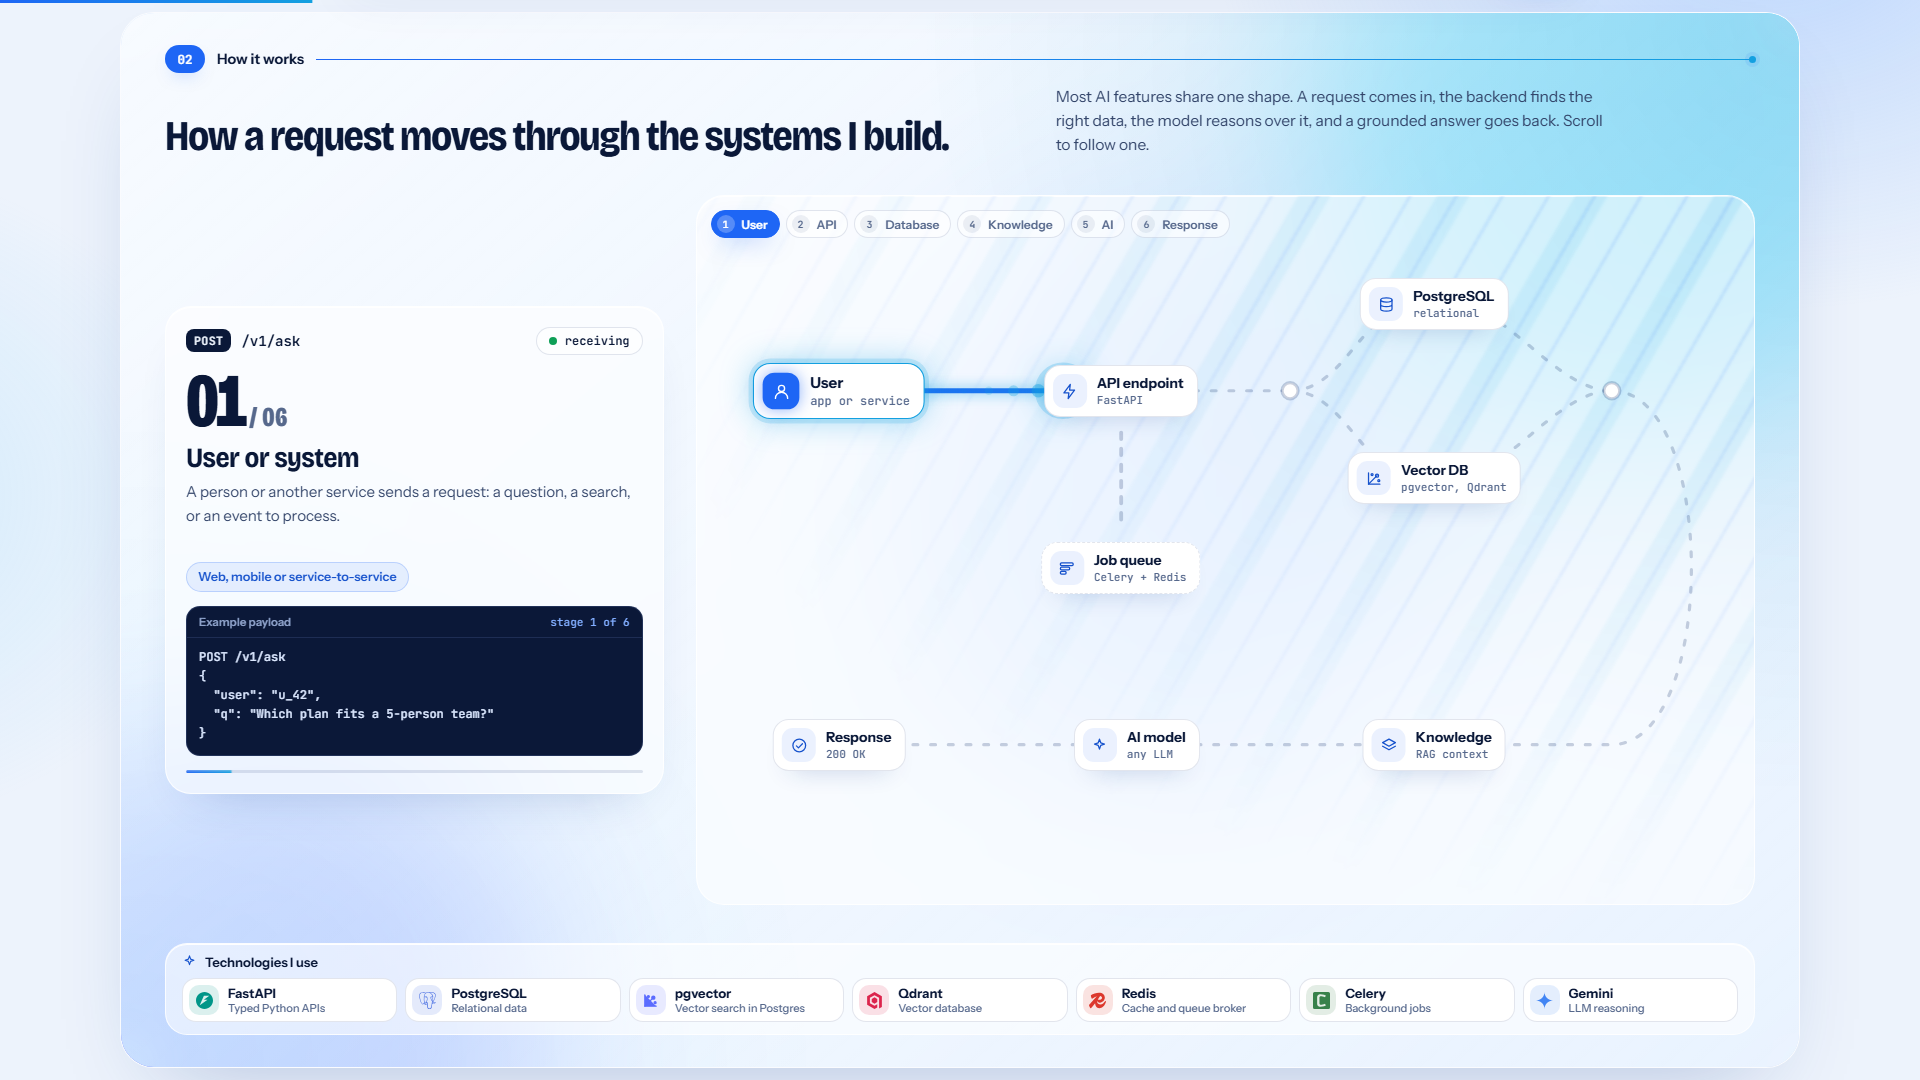
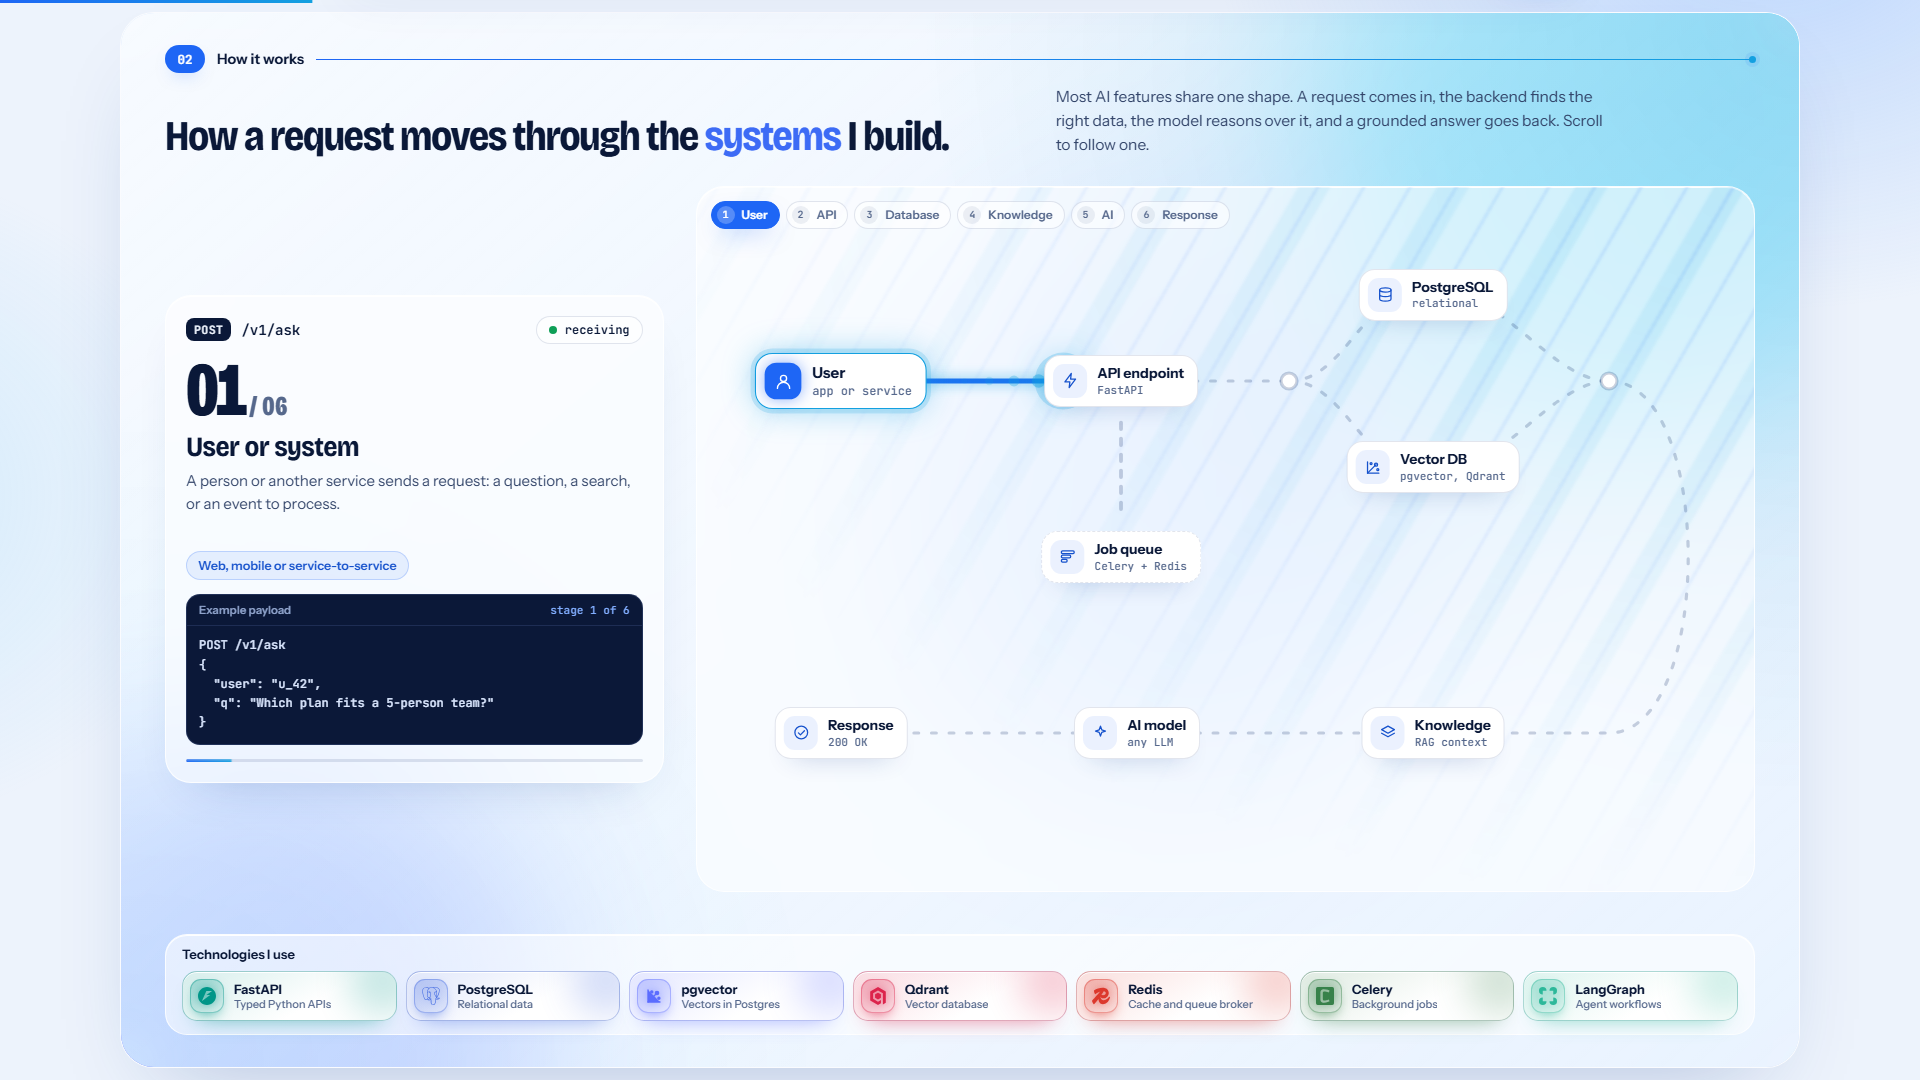
style: refine journey tech cards and heading

diff --git a/src/styles/home.css b/src/styles/home.css
@@ -163,7 +163,7 @@
 .jr-steps li.done i { background: var(--accent); color: #FFFFFF; }
 .jr-steps li.now { background: var(--accent); border-color: var(--accent); color: #FFFFFF; box-shadow: 0 0 24px rgba(47, 110, 240, .6); }
 .jr-steps li.now i { background: rgba(255, 255, 255, .22); color: #FFFFFF; }
-.jr-diagram { position: relative; width: min(100%, calc((100svh - 400px) * 1.6)); max-width: 100%; margin-inline: auto; aspect-ratio: 640 / 400; container-type: inline-size; }
+.jr-diagram { position: relative; width: min(100%, calc((100svh - 440px) * 1.6)); max-width: 100%; margin-inline: auto; aspect-ratio: 640 / 400; container-type: inline-size; }
 .jr-diagram > svg { position: absolute; inset: 0; width: 100%; height: 100%; overflow: visible; }
 .jr-bg path { fill: none; stroke: var(--line-strong); stroke-width: 2; stroke-dasharray: 3 8; stroke-linecap: round; }
 .jr-path { fill: none; stroke: url(#jrGrad); stroke-width: 3.2; stroke-linecap: round; filter: drop-shadow(0 0 5px rgba(56, 192, 242, .75)); }
@@ -204,7 +204,7 @@
   .jr-n { font-size: 44px; margin-top: 8px; }
   .jr-desc { min-height: 0; font-size: 14px; }
   .jr-pre { min-height: 5.6em; font-size: 11.5px; }
-  .jr-diagram { width: min(100%, calc((100svh - 350px) * 1.6)); }
+  .jr-diagram { width: min(100%, calc((100svh - 390px) * 1.6)); }
 }
 
 /* request journey on the frosted cyan glass band (same recipe as the "Keep systems replaceable" card) */
@@ -245,14 +245,19 @@
 /* data-flow container: same glass colour, plus soft blurred "/" lines (a wide soft band and a thin line, fading toward the lower left) */
 .jr-stage::before { content: ""; position: absolute; inset: -4px; z-index: -1; pointer-events: none; filter: blur(1.4px); background: repeating-linear-gradient(120deg, transparent 0 46px, color-mix(in srgb, var(--accent-2) 11%, transparent) 46px 74px, transparent 74px 120px), repeating-linear-gradient(120deg, transparent 0 22px, color-mix(in srgb, var(--accent) 22%, transparent) 22px 24px, transparent 24px 40px); -webkit-mask-image: radial-gradient(130% 120% at 100% 0%, #000 0%, rgba(0, 0, 0, .55) 45%, transparent 85%); mask-image: radial-gradient(130% 120% at 100% 0%, #000 0%, rgba(0, 0, 0, .55) 45%, transparent 85%); }
 /* technologies strip under the flow */
-.jr-stack { display: grid; gap: 8px; padding: 10px clamp(10px, 1.2vw, 16px) 12px; border-radius: 22px; background: var(--rg-inset); border: 1px solid var(--rg-edge); box-shadow: inset 0 1px 0 var(--rg-hi); }
-.jr-stack-k { display: inline-flex; align-items: center; gap: 8px; font: 650 13px var(--f-body); color: var(--ink); }
-.jr-stack-k .ico { width: 15px; height: 15px; color: var(--accent-text); }
-.jr-stack ul { display: grid; grid-template-columns: repeat(7, minmax(0, 1fr)); gap: 8px; margin: 0; padding: 0; list-style: none; }
-.jr-stack li { --brand: var(--accent); display: flex; align-items: center; gap: 9px; min-width: 0; padding: 6px 10px 6px 6px; border-radius: 14px; background: var(--surface-solid); border: 1px solid var(--line); }
-.jr-stack-ic { flex: none; display: grid; place-items: center; width: 30px; height: 30px; border-radius: 10px; background: var(--accent-soft); background: color-mix(in srgb, var(--brand) 14%, transparent); }
-.jr-stack-ic svg { width: 17px; height: 17px; fill: var(--brand); }
-.jr-stack-ic .ico { width: 17px; height: 17px; color: var(--brand); }
+.jr-grid { margin-bottom: 14px; }
+.jr-sys { color: #3D6BF5; }
+.jr-stack { display: grid; gap: 9px; padding: 11px clamp(10px, 1.2vw, 16px) 13px; border-radius: 22px; background: var(--rg-inset); border: 1px solid var(--rg-edge); box-shadow: inset 0 1px 0 var(--rg-hi); }
+.jr-stack-k { font: 650 13px var(--f-body); color: var(--ink); }
+.jr-stack ul { display: grid; grid-template-columns: repeat(7, minmax(0, 1fr)); gap: 9px; margin: 0; padding: 0; list-style: none; }
+.jr-stack li { --brand: var(--accent); position: relative; isolation: isolate; overflow: hidden; display: flex; align-items: center; gap: 10px; min-width: 0; padding: 7px 10px 7px 7px; border-radius: 15px; background: linear-gradient(150deg, color-mix(in srgb, var(--brand) 16%, var(--surface-solid)), var(--surface-solid) 62%); border: 1px solid color-mix(in srgb, var(--brand) 30%, var(--line)); box-shadow: inset 0 1px 0 var(--rg-hi), 0 12px 22px -16px color-mix(in srgb, var(--brand) 70%, transparent); transition: translate .4s var(--ease), box-shadow .4s var(--ease), border-color .3s; }
+/* soft brand glow in the corner */
+.jr-stack li::before { content: ""; position: absolute; z-index: -1; right: -22px; top: -26px; width: 70px; height: 70px; border-radius: 50%; background: var(--brand); opacity: .22; filter: blur(18px); transition: opacity .4s; }
+.jr-stack li:hover { translate: 0 -3px; border-color: color-mix(in srgb, var(--brand) 60%, transparent); box-shadow: inset 0 1px 0 var(--rg-hi), 0 18px 30px -16px color-mix(in srgb, var(--brand) 85%, transparent); }
+.jr-stack li:hover::before { opacity: .4; }
+.jr-stack-ic { flex: none; display: grid; place-items: center; width: 34px; height: 34px; border-radius: 11px; background: linear-gradient(145deg, color-mix(in srgb, var(--brand) 30%, transparent), color-mix(in srgb, var(--brand) 10%, transparent)); box-shadow: inset 0 0 0 1px color-mix(in srgb, var(--brand) 38%, transparent), 0 6px 14px -6px color-mix(in srgb, var(--brand) 80%, transparent); }
+.jr-stack-ic svg { width: 18px; height: 18px; fill: var(--brand); filter: drop-shadow(0 0 5px color-mix(in srgb, var(--brand) 55%, transparent)); }
+.jr-stack-ic .ico { width: 18px; height: 18px; color: var(--brand); }
 .jr-stack li b { display: block; font: 700 13px/1.25 var(--f-body); color: var(--ink); white-space: nowrap; overflow: hidden; text-overflow: ellipsis; }
 .jr-stack li small { display: block; font: 500 11px/1.3 var(--f-body); color: var(--muted); overflow: hidden; text-overflow: ellipsis; white-space: nowrap; }
 @media (max-width: 1180px) { .jr-stack li small { display: none; } }

diff --git a/src/components/home/journey/Journey.tsx b/src/components/home/journey/Journey.tsx
@@ -16,9 +16,9 @@ const STACK: { name: string; note: string; brand?: string; color?: string }[] = 
   { name: "PostgreSQL", note: "Relational data", brand: "postgresql", color: "#4169E1" },
   { name: "pgvector", note: "Vectors in Postgres", color: "#5B6CFF" },
   { name: "Qdrant", note: "Vector database", brand: "qdrant", color: "#DC244C" },
-  { name: "Redis", note: "Cache and queue broker", brand: "redis", color: "#DC382D" },
+  { name: "Redis", note: "Cache and broker", brand: "redis", color: "#DC382D" },
   { name: "Celery", note: "Background jobs", brand: "celery", color: "#37814A" },
-  { name: "Gemini", note: "LLM reasoning", brand: "googlegemini", color: "#4285F4" },
+  { name: "LangGraph", note: "Agent workflows", brand: "langgraph", color: "#2DB89A" },
 ];
 const BG_PATHS = [
   "M80 90 H360",
@@ -43,7 +43,7 @@ export function Journey() {
           <div className="jr-head">
             <SectionMark num="02" label="How it works" />
             <h2 className="h2" id="jr-h">
-              How a request moves through the systems I build.
+              How a request moves through the <span className="jr-sys">systems</span> I build.
             </h2>
             <p className="lead">
               Most AI features share one shape. A request comes in, the backend finds the right data, the model reasons
@@ -152,7 +152,6 @@ export function Journey() {
           </div>
           <div className="jr-stack" aria-hidden="true">
             <span className="jr-stack-k">
-              <Icon name="spark" />
               Technologies I use
             </span>
             <ul>
